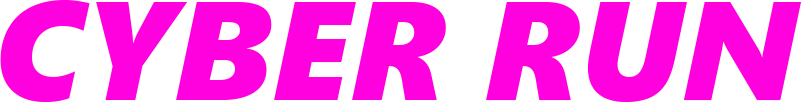
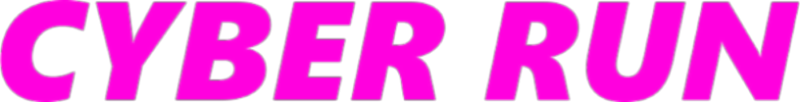
Mise en forme du main menu, fix images. -NOD

diff --git a/Projet1/GameCode/Game/GameState.cpp b/Projet1/GameCode/Game/GameState.cpp
@@ -15,25 +15,32 @@ void GameState::changeGameState(std::string state)
 	if (this->state == "MainMenu")
 	{
 #pragma region MainMenu
+		tgui::BitmapButton::Ptr mainTitle = tgui::BitmapButton::create();
+		data->gui.add(mainTitle, "MainTitle");
+		mainTitle = data->gui.get<tgui::BitmapButton>("MainTitle");
+		mainTitle->setEnabled(false);
+		mainTitle->setSize(800, 102);
+		mainTitle->setPosition(100, 100);
+		mainTitle->setImage("GameCode/Images/CyberRun.png");
 		tgui::BitmapButton::Ptr buttonStart = tgui::BitmapButton::create();
 		data->gui.add(buttonStart, "StartButton");
 		buttonStart = data->gui.get<tgui::BitmapButton>("StartButton");
-		buttonStart->setSize(400, 100);
-		buttonStart->setPosition(390, 50);
+		buttonStart->setSize(345, 100);
+		buttonStart->setPosition(350, 300);
 		buttonStart->setImage("GameCode/Images/Jouer.png");
 		buttonStart->connect("Pressed", [&]() { GameState::changeGameState("Tycoon"); });
 		tgui::BitmapButton::Ptr buttonSettings = tgui::BitmapButton::create();
 		data->gui.add(buttonSettings, "SettingsButton");
 		buttonSettings = data->gui.get<tgui::BitmapButton>("SettingsButton");
 		buttonSettings->setSize(200, 114);
-		buttonSettings->setPosition(390, 250);
+		buttonSettings->setPosition(800, 886);
 		buttonSettings->setImage("GameCode/Images/engrenages.png");
 		buttonSettings->connect("Pressed", [&]() { GameState::changeGameState("Settings"); });
 		tgui::BitmapButton::Ptr buttonQuit = tgui::BitmapButton::create();
 		data->gui.add(buttonQuit, "QuitterButton");
 		buttonQuit = data->gui.get<tgui::BitmapButton>("QuitterButton");
 		buttonQuit->setSize(450, 100);
-		buttonQuit->setPosition(390, 450);
+		buttonQuit->setPosition(300, 500);
 		buttonQuit->setImage("GameCode/Images/Quitter.png");
 		buttonQuit->connect("Pressed", [&]() { data->window.close(); });
 #pragma endregion MainMenu
@@ -268,7 +275,7 @@ void GameState::changeGameState(std::string state)
 		data->gui.add(buttonBack, "ButtonBack");
 		buttonBack = data->gui.get<tgui::Button>("ButtonBack");
 		buttonBack->setSize(200, 100);
-		buttonBack->setPosition(440, 900);
+		buttonBack->setPosition(440, 850);
 		buttonBack->setTextSize(68);
 		buttonBack->setText("Back");
 		buttonBack->connect("Pressed", [&]() { GameState::changeGameState("MainMenu"); });
